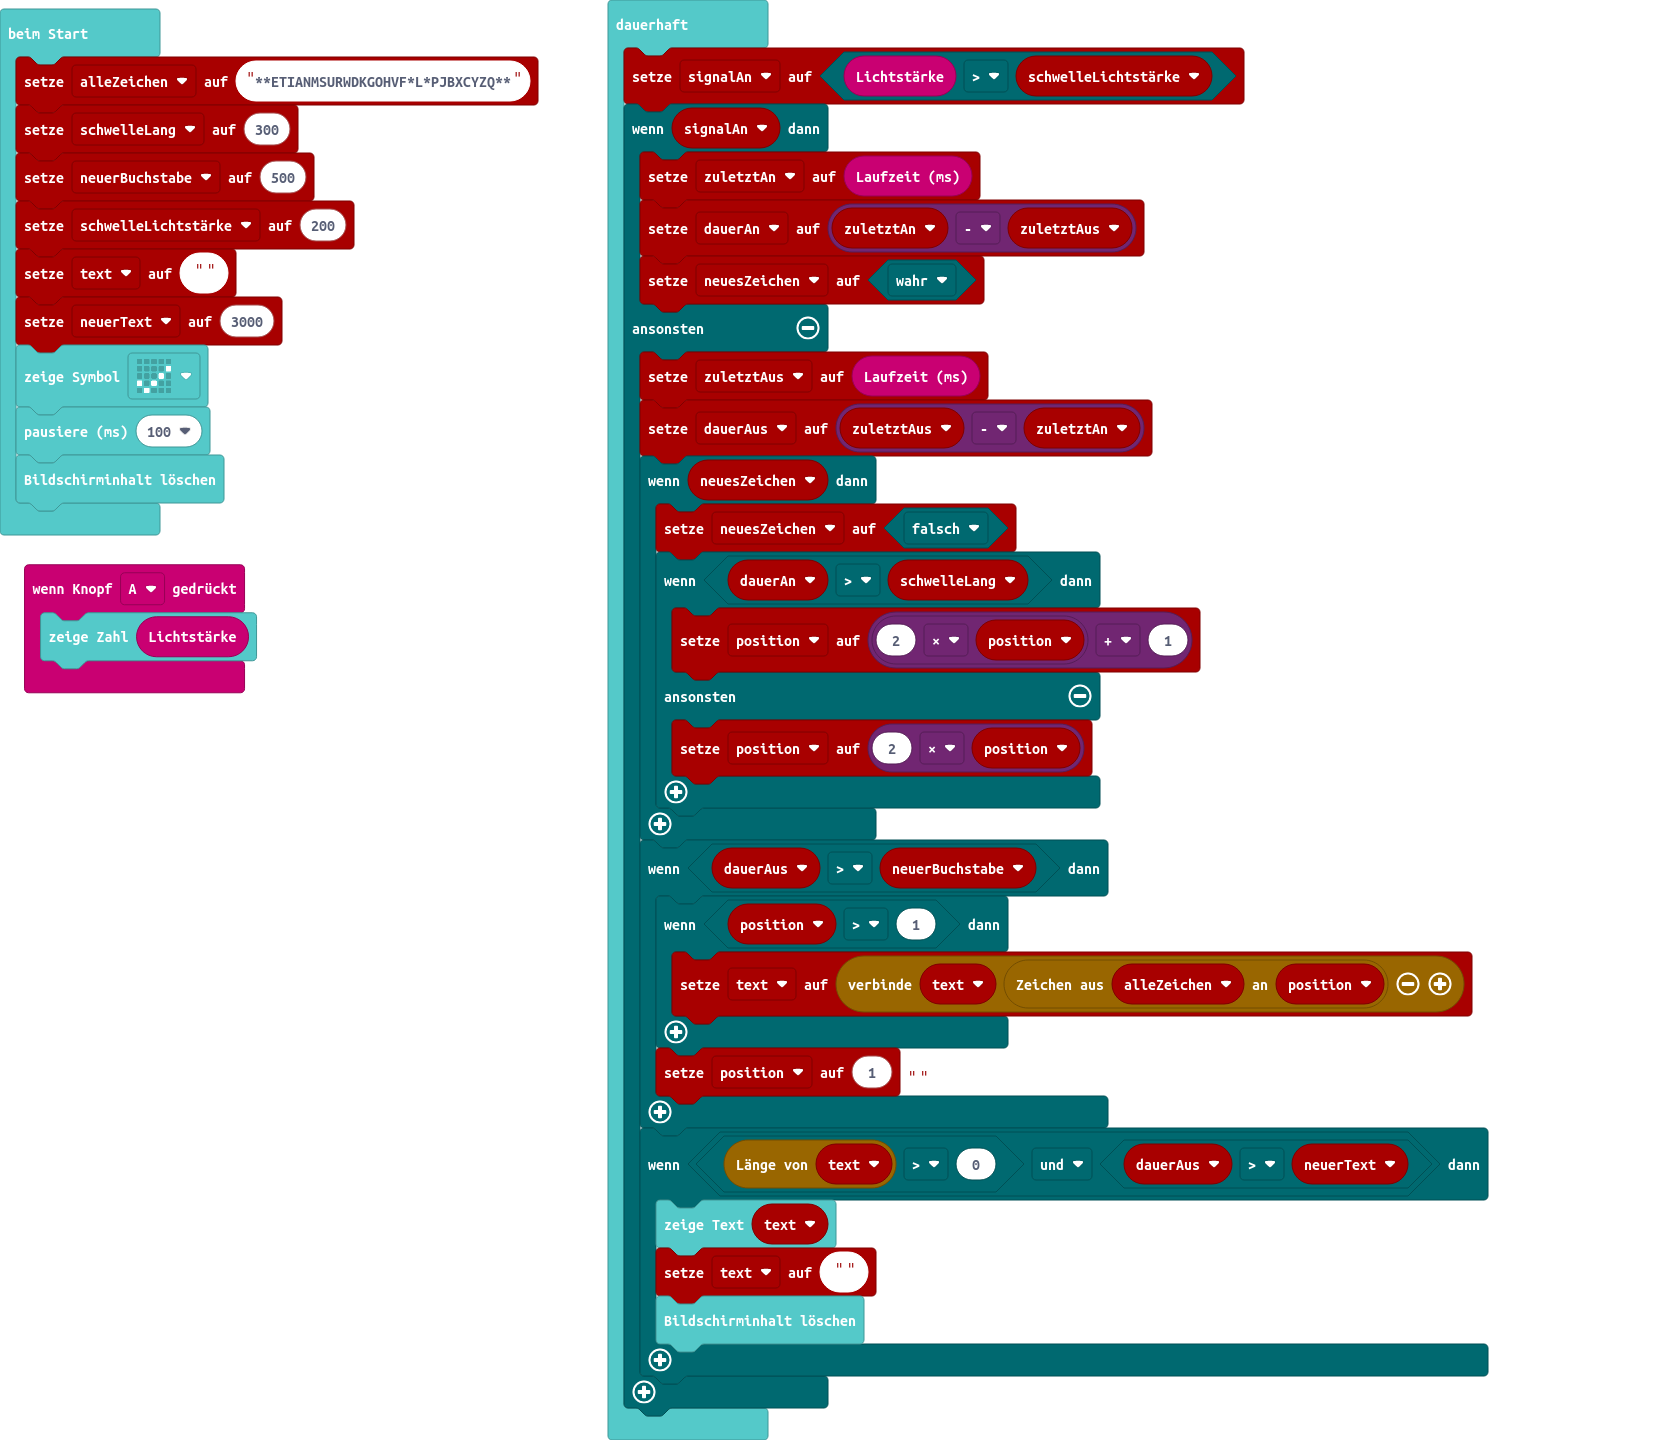
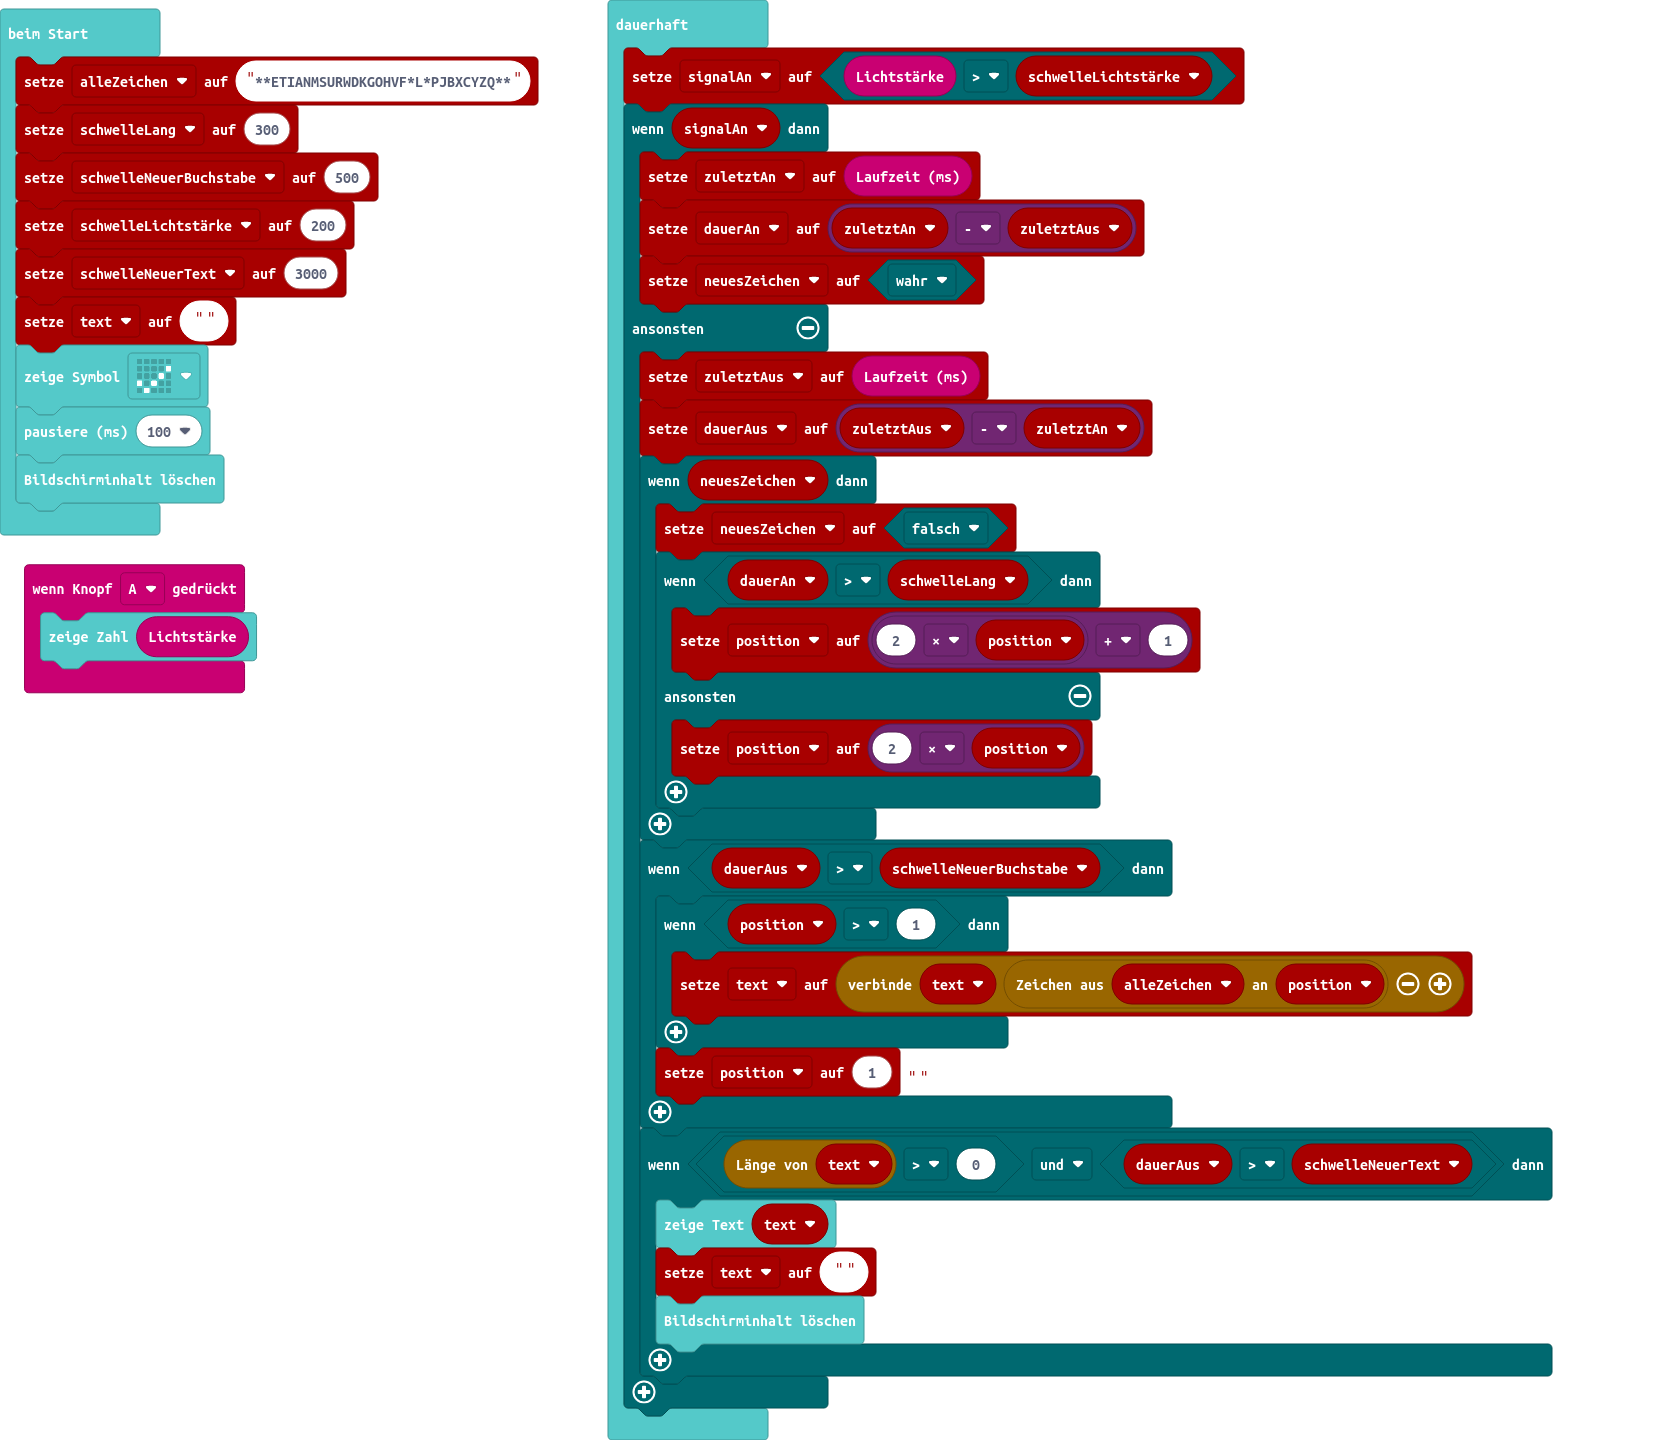
Aktualisiere main.blocks, main.ts

diff --git a/main.ts b/main.ts
@@ -10,10 +10,10 @@ let zuletztAn = 0
 let signalAn = false
 let alleZeichen = "**ETIANMSURWDKGOHVF*L*PJBXCYZQ**"
 let schwelleLang = 300
-let neuerBuchstabe = 500
+let schwelleNeuerBuchstabe = 500
 let schwelleLichtstärke = 200
+let schwelleNeuerText = 3000
 let text = ""
-let neuerText = 3000
 basic.showIcon(IconNames.Yes)
 basic.pause(100)
 basic.clearScreen()
@@ -34,13 +34,13 @@ basic.forever(function () {
                 position = 2 * position
             }
         }
-        if (dauerAus > neuerBuchstabe) {
+        if (dauerAus > schwelleNeuerBuchstabe) {
             if (position > 1) {
                 text = "" + text + alleZeichen.charAt(position)
             }
             position = 1
         }
-        if (text.length > 0 && dauerAus > neuerText) {
+        if (text.length > 0 && dauerAus > schwelleNeuerText) {
             basic.showString(text)
             text = ""
             basic.clearScreen()
